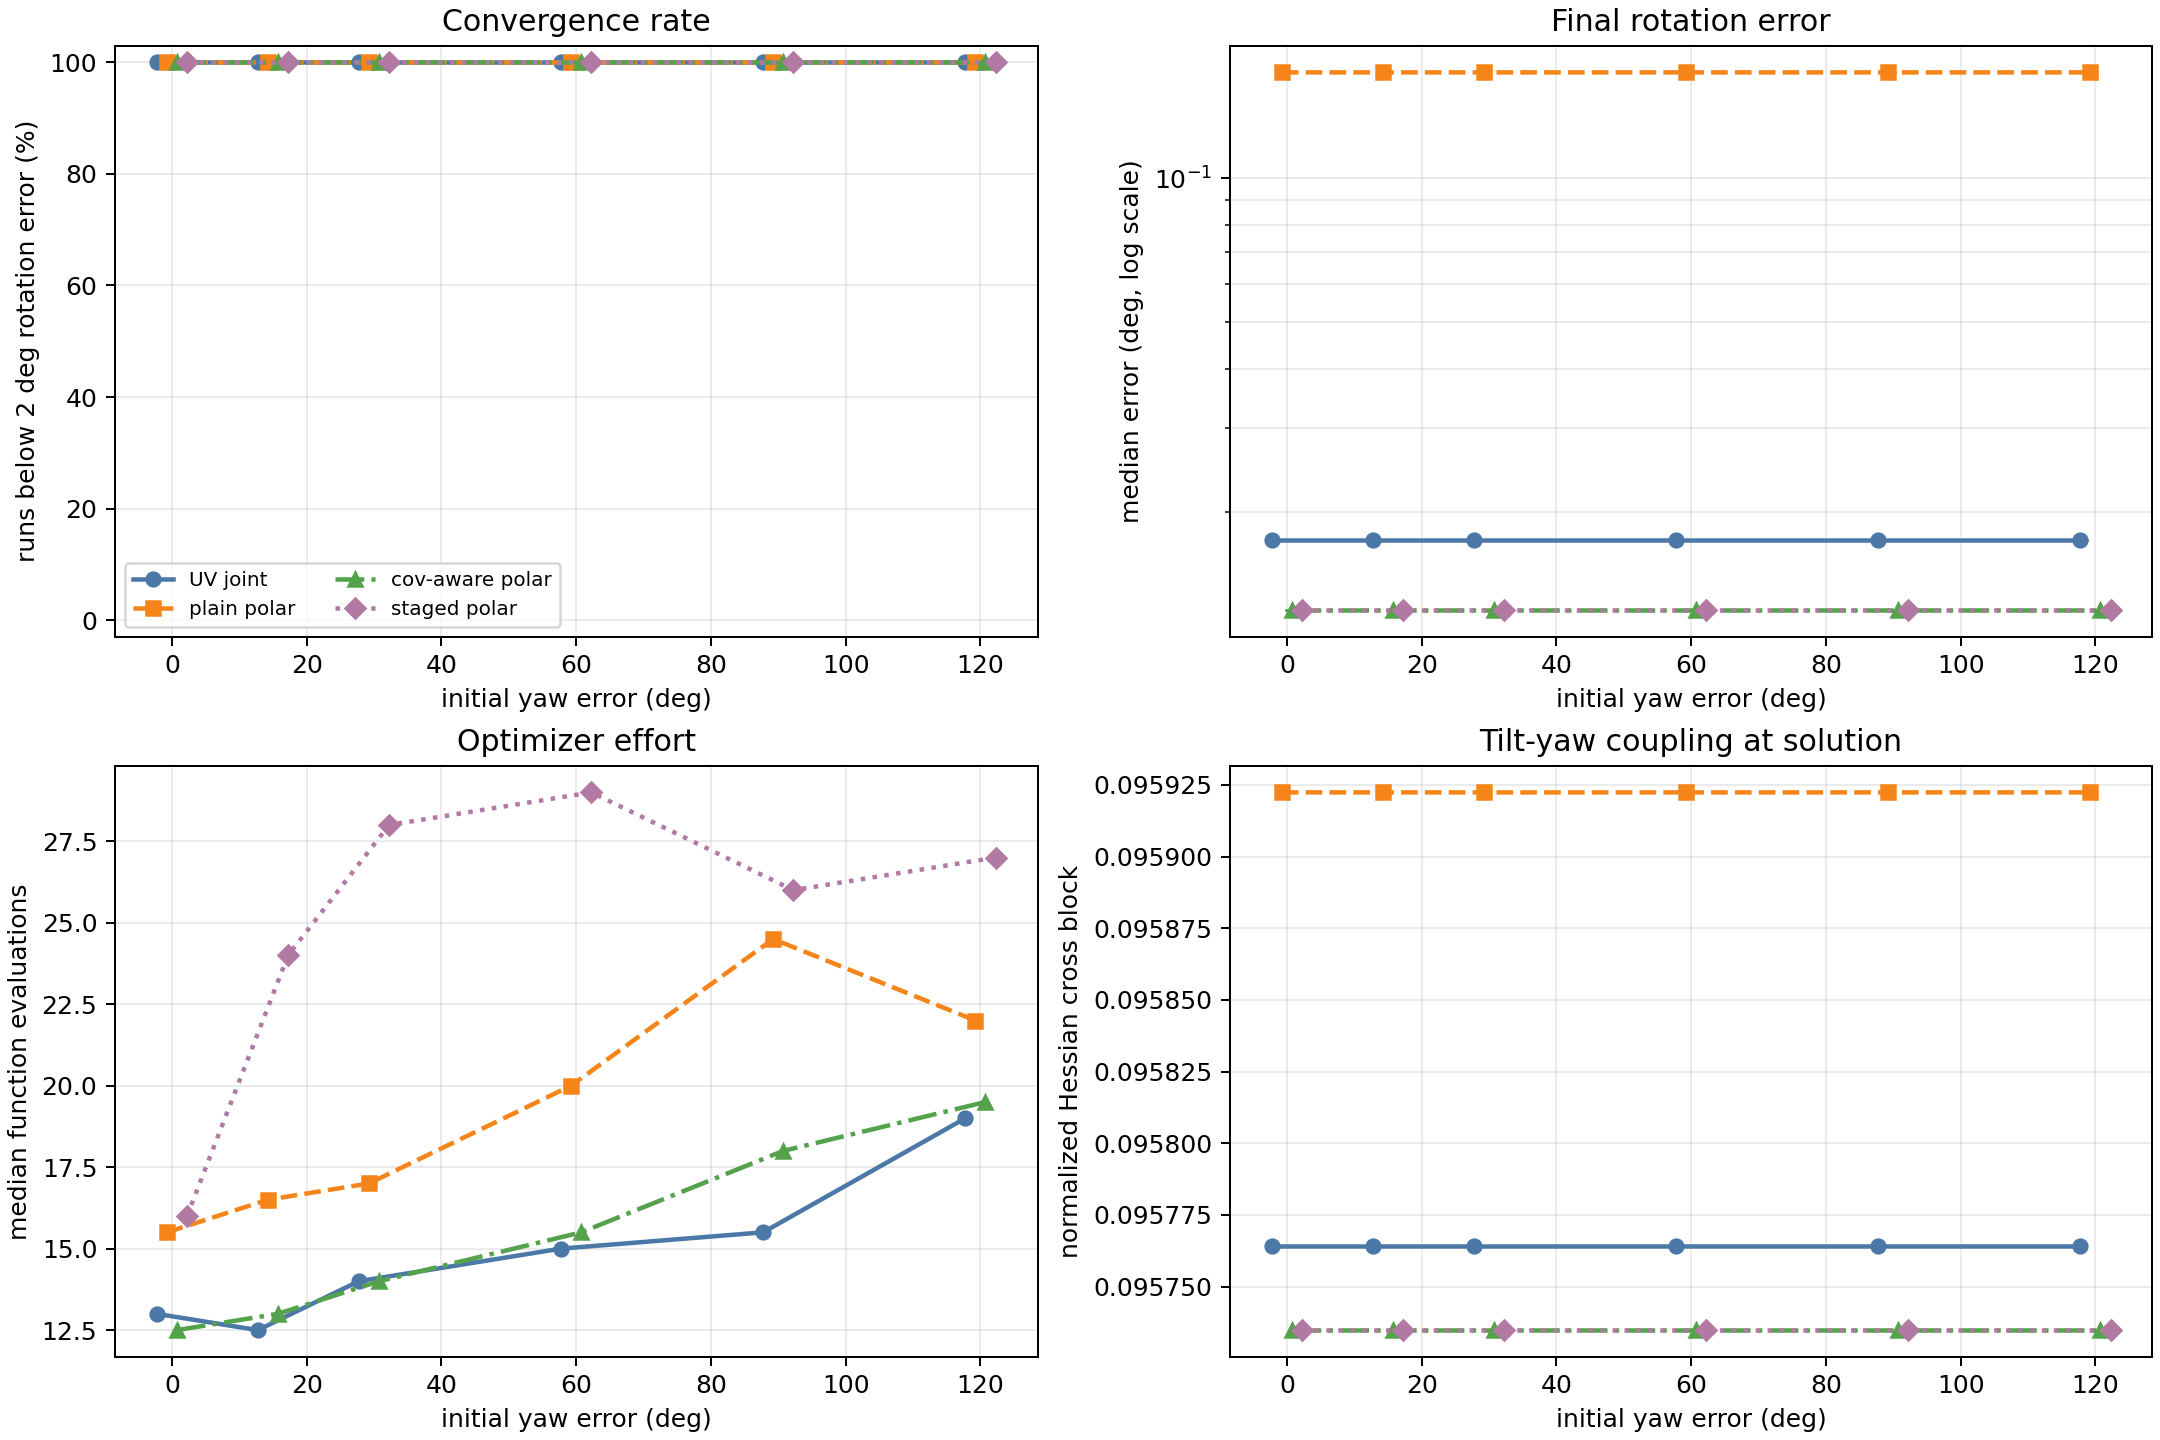
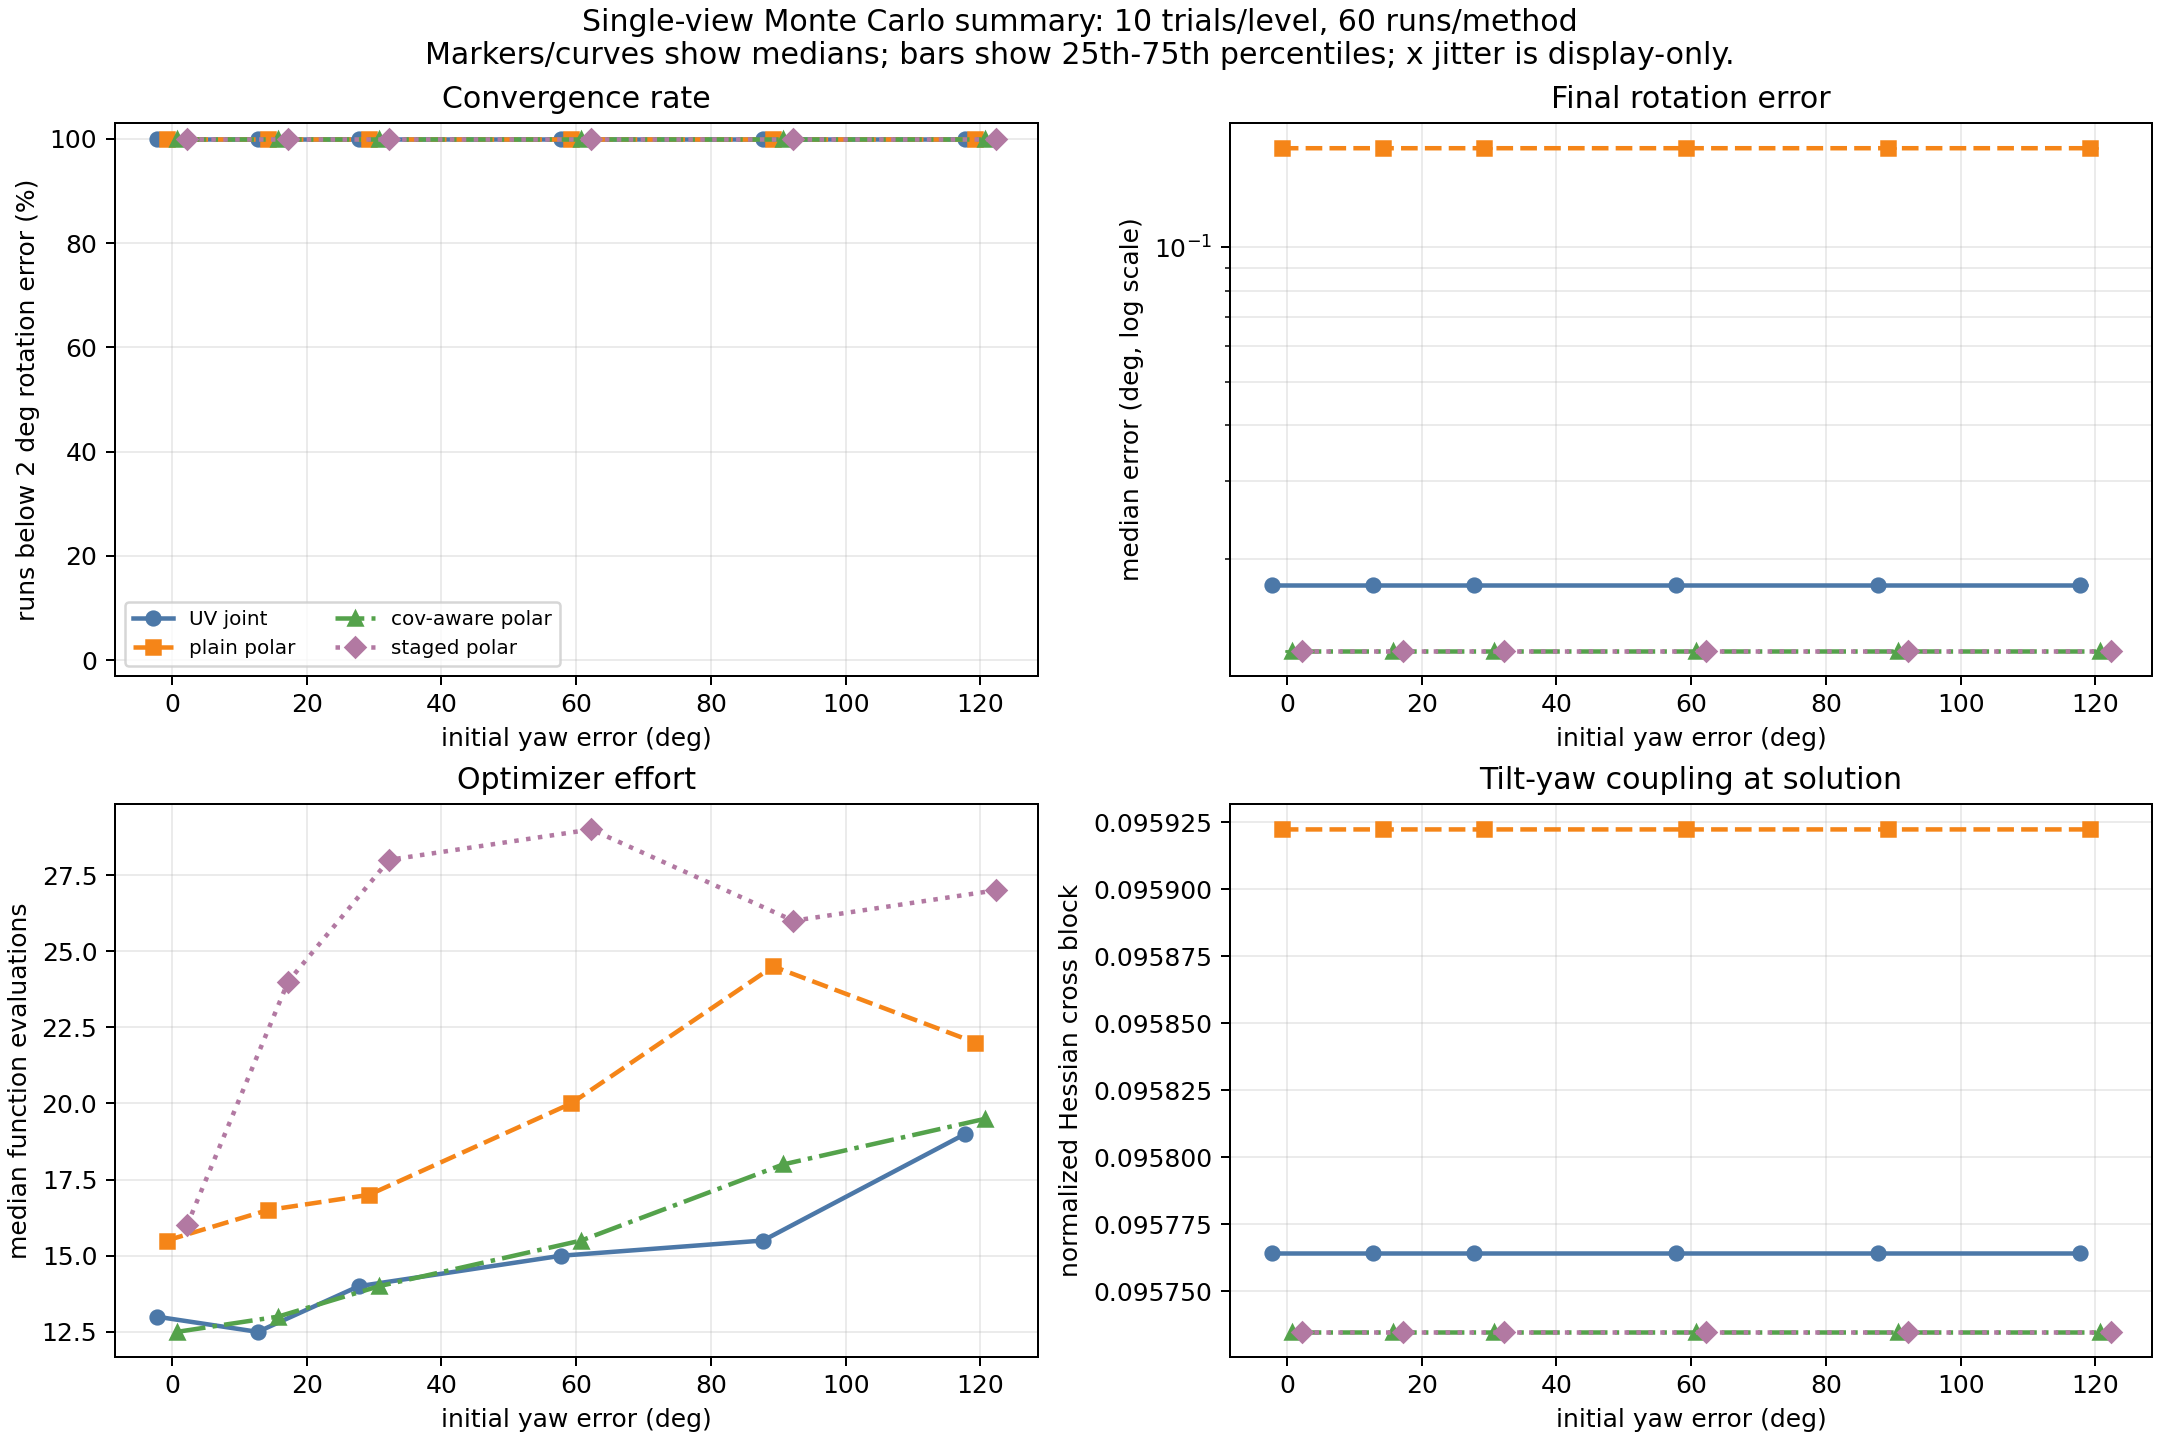
Annotate Monte Carlo summary metadata

diff --git a/src/rpy_polar_synth/visualize.py b/src/rpy_polar_synth/visualize.py
@@ -93,6 +93,17 @@ def _plot_series(ax, x, y, method: str, label: str, yerr=None, zorder: int = 2) 
         )
 
 
+def _monte_carlo_metadata(records: np.ndarray) -> tuple[int, int, int]:
+    yaw_levels = np.unique(records["yaw_init_error_deg"])
+    trial_counts = []
+    for yaw in yaw_levels:
+        mask = records["yaw_init_error_deg"] == yaw
+        trial_counts.append(len(np.unique(records["trial"][mask])))
+    n_trials = int(min(trial_counts)) if trial_counts else 0
+    n_methods = int(len(np.unique(records["method"])))
+    return n_trials, int(len(yaw_levels)), n_methods
+
+
 def save_scene_plot(scene: SyntheticScene, path: Path) -> None:
     path.parent.mkdir(parents=True, exist_ok=True)
     fig = plt.figure(figsize=(8, 6))
@@ -301,8 +312,15 @@ def save_monte_carlo_summary(records: np.ndarray, path: Path) -> None:
     methods = [method for method in LABELS if method in set(records["method"])]
     yaw_levels = np.unique(records["yaw_init_error_deg"])
     plot_x = _x_offsets(yaw_levels, methods)
+    n_trials, n_yaws, _ = _monte_carlo_metadata(records)
 
     fig, axes = plt.subplots(2, 2, figsize=(12, 8), constrained_layout=True)
+    fig.suptitle(
+        f"Single-view Monte Carlo summary: {n_trials} trials/level, "
+        f"{n_trials * n_yaws} runs/method\n"
+        "Markers/curves show medians; bars show 25th-75th percentiles; x jitter is display-only.",
+        fontsize=12,
+    )
 
     ax = axes[0, 0]
     for i, method in enumerate(methods):
@@ -399,8 +417,15 @@ def save_ba_summary(records: np.ndarray, path: Path) -> None:
     methods = ["ba_uv_joint", "ba_polar_plain_joint", "ba_polar_cov_joint", "ba_polar_staged"]
     yaw_levels = np.unique(records["yaw_init_error_deg"])
     plot_x = _x_offsets(yaw_levels, methods)
+    n_trials, n_yaws, _ = _monte_carlo_metadata(records)
 
     fig, axes = plt.subplots(2, 3, figsize=(15, 8), constrained_layout=True)
+    fig.suptitle(
+        f"Two-view BA Monte Carlo summary: {n_trials} trials/level, "
+        f"{n_trials * n_yaws} runs/method\n"
+        "Markers/curves show medians; bars show 25th-75th percentiles; x jitter is display-only.",
+        fontsize=12,
+    )
 
     ax = axes[0, 0]
     for i, method in enumerate(methods):

diff --git a/README.md b/README.md
@@ -232,7 +232,14 @@ What the three slices together support:
 
 ![Single-view Monte-Carlo summary](outputs/monte_carlo_summary.png)
 
-`monte_carlo_summary.png` summarizes the clean single-view Monte-Carlo experiment.
+`monte_carlo_summary.png` summarizes the clean single-view Monte-Carlo experiment. In the default run, it aggregates 10 randomized trials per yaw-error level, 6 yaw-error levels, and therefore 60 runs per method. With 4 methods, the CSV contains 240 result records.
+
+This is how the figure reflects Monte-Carlo sampling:
+
+- The x-axis lists the controlled initial optical-axis `yaw` error levels.
+- For each x value, the experiment repeats the same method under 10 randomized initial perturbations.
+- A plotted marker is not one run; it is a statistic over those repeated trials.
+- Median curves summarize the central tendency, and vertical bars show the 25th-75th percentile range when that subplot uses error bars.
 
 Visual note:
 
@@ -347,6 +354,8 @@ Visualization:
 
 `ba_monte_carlo_summary.png` is the central evidence figure for the larger claim. Unlike the single-view sanity check, this experiment optimizes pose and inverse depths together, so pose-depth coupling can trap direct joint optimization.
 
+In the default BA run, this figure aggregates 6 randomized trials per yaw-error level and 6 yaw-error levels, so each method has 36 runs. With 4 methods, `ba_monte_carlo_results.csv` contains 144 result records.
+
 Key reading:
 
 - The convergence-rate panel shows that direct joint BA with UV, raw polar, or covariance-aware polar residuals fails under the tested large-initial-error regime.
@@ -408,3 +417,4 @@ Suggested version labels:
 | `v0.2.1-figure-report` | detailed figure interpretation and project-specific RPY documentation |
 | `v0.2.2-landscape-slices` | complete roll-pitch-yaw cost landscape slices with six additional panels |
 | `v0.2.3-summary-readability` | Monte-Carlo subplot explanations and de-overlapped summary curves |
+| `v0.2.4-monte-carlo-metadata` | explicit Monte-Carlo trial counts and aggregation metadata in summary figures |
